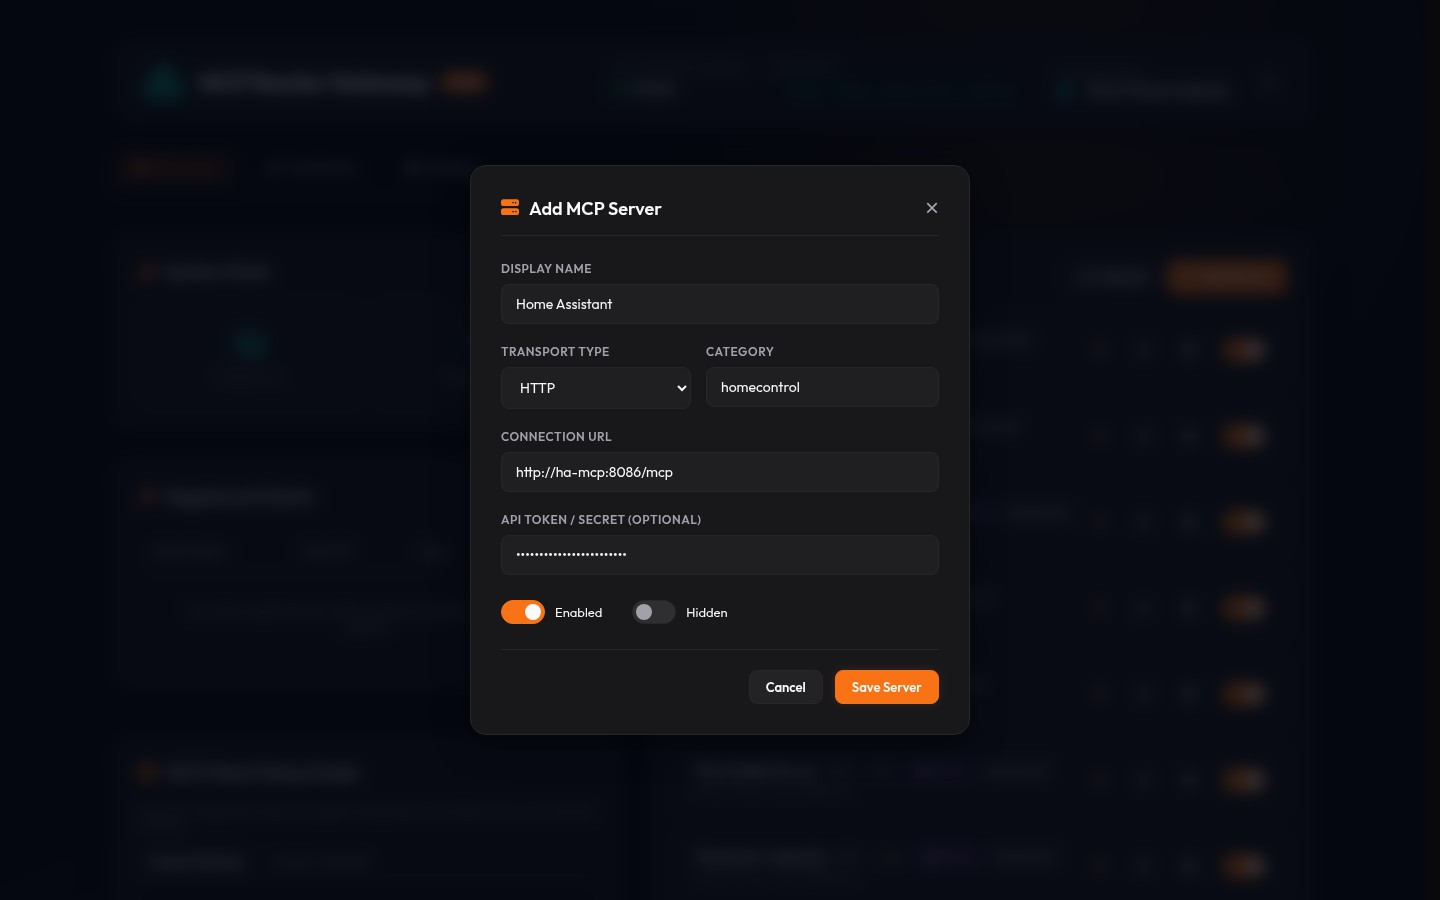
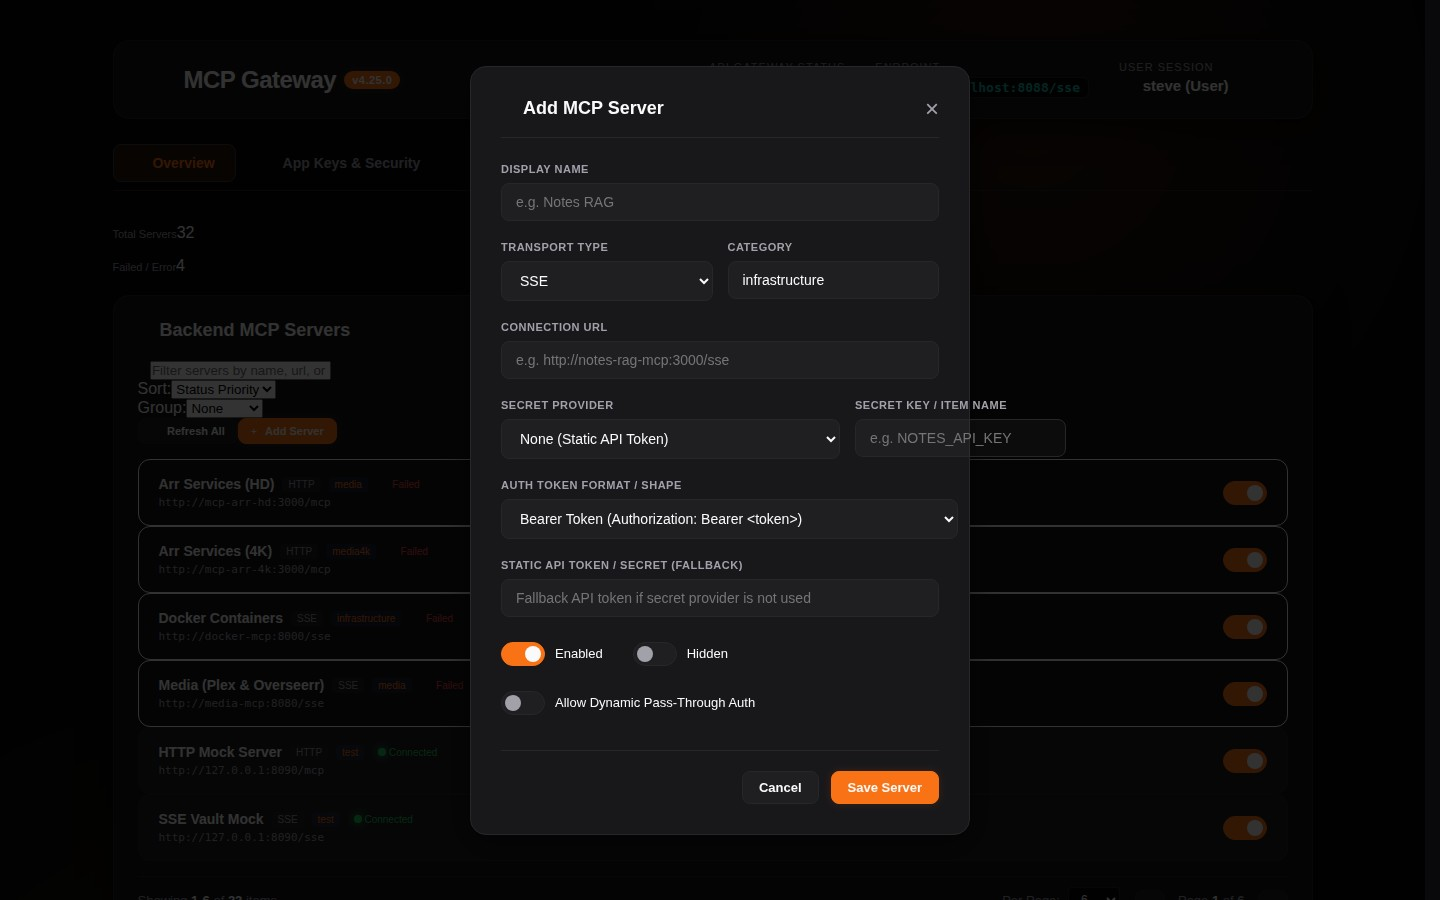
docs(user-guide): embed authentic live application screenshots across all user guide chapters

diff --git a/docs/user-guide/06-settings-and-embeddings.md b/docs/user-guide/06-settings-and-embeddings.md
@@ -6,22 +6,17 @@ The **Settings View** (`Settings` tab) provides a comprehensive configuration pl
 
 ## 🧭 Settings Sub-Navigation Tabs
 
-The Settings interface is organized into 6 modular domain tabs:
+![System Settings Overview](../assets/settings_view.jpg)
 
-```
-+---------------------------------------------------------------------------------------------+
-| ⚙ System Settings                                                                          |
-+---------------------------------------------------------------------------------------------+
-| [🧠 Vector & Search] [🛡 Security & Approvals] [🪪 Identity & Auth] [🔐 Secret Providers]   |
-| [📂 Prompts & Resources] [👥 Access Control]                                                |
-+---------------------------------------------------------------------------------------------+
-```
+The Settings interface is organized into 6 modular domain tabs:
 
 ---
 
 ## 🧠 Tab 1: Vector & Search Engine (`GeneralTab`)
 
-The vector embedding engine powers the **Meta-Mode** dynamic discovery pipeline (`search_tools`), matching natural language agent queries against the tool catalog.
+![Settings Vector and Semantic Search Options](../assets/settings_vector_search.jpg)
+
+The vector embedding engine powers the **Meta-Mode** dynamic discovery pipeline (`search_tools`), matching natural language agent queries against the tool catalog:
 
 ```
 +-------------------------------------------------------------------------------+
@@ -71,6 +66,8 @@ Controls global execution policies and administrative barriers:
 
 ## 🪪 Tab 3: Identity & Auth Providers (`IdentityAuthTab`)
 
+![Settings Identity and Authentication Providers](../assets/settings_identity_auth.jpg)
+
 Manages incoming authentication and user identity resolution:
 
 ### 1. Active Directory / Windows SID Provider
@@ -89,31 +86,19 @@ Manages incoming authentication and user identity resolution:
 
 ## 🔐 Tab 4: Secret Providers (`SecretProvidersTab`)
 
-Manage centralized configurations for external secret stores:
+![Settings Enterprise Secret Providers](../assets/settings_secret_providers.jpg)
 
-```
-+-------------------------------------------------------------------------------+
-| 🔐 Enterprise Secret Providers                                                |
-+-------------------------------------------------------------------------------+
-| [ HashiCorp Vault KV v2 ]                         [ Status: 🟢 Connected ]   |
-| Vault Address:       [ http://vault:8200                                   ]  |
-| Mount Point:         [ secret                                              ]  |
-| Authentication Mode: [ AppRole ▾ ]                                            |
-| Role ID:             [ 4a3e21b0-****-****-****-****************            ]  |
-| Secret ID:           [ ************************************                ]  |
-| JIT Renewal Window:  [ 300 ] seconds (Auto-renews if TTL < 5 min)             |
-|                                                                               |
-| [ Windows Registry (DPAPI) ]                      [ Status: 🟢 Active    ]   |
-| Registry Hive:       [ LocalMachine (HKLM) ▾ ]                                |
-| Base Subkey Path:    [ SOFTWARE\Homelab\McpSecrets                         ]  |
-|                                                                               |
-| [ Save Provider Settings ]                                                    |
-+-------------------------------------------------------------------------------+
-```
+Manage centralized configurations for external secret stores:
+* **HashiCorp Vault KV v2**: AppRole (`roleId` / `secretId`) or direct Token with JIT renewal.
+* **Windows Registry**: DPAPI-encrypted secrets stored in `HKLM` or `HKCU`.
+* **Container Environment**: Secrets dynamically loaded from prefix-matched container env vars.
+* **OAuth2 / OIDC Token Exchange (RFC 8693 / PocketID)**: On-Behalf-Of (OBO) token exchange for downstream tools.
 
 ---
 
 ## 📂 Tab 5: Prompts & Resources File Manager (`CustomFilesTab`)
+
+![Settings Prompts and Resources File Manager](../assets/settings_prompts_resources.jpg)
 
 Create and manage custom JSON files that define virtual tools, prompt templates, and virtual resource endpoints:
 
@@ -125,11 +110,12 @@ Create and manage custom JSON files that define virtual tools, prompt templates,
 
 ## 👥 Tab 6: Access Control & Group Mappings (`AccessControlTab`)
 
+![Settings Access Control and Group Mappings](../assets/settings_access_control.jpg)
+
 Fine-tune enterprise permissions across servers and external groups:
 
-* **Group Mappings Table**: Define mappings that translate external Identity Provider groups (e.g. `CN=IT-Admins,OU=Groups,DC=corp`) to simplified internal roles (`full_admin`).
+* **Group Mappings Table**: Define mappings that translate external Identity Provider groups (e.g. `CN=IT-Admins,OU=Groups,DC=corp` or `S-1-5-21-1001`) to simplified internal roles (`full_admin`).
 * **Server Policies Table**: Complete matrix of server-level access rules:
-  * Server Identifier
-  * Allowed Groups (e.g. `full_admin, house_member`)
-  * Denied Groups (e.g. `contractors`)
-  * Default Allow / Deny policy flag
+  * Target Identifier (e.g. `server:docker`, `tool:docker__ps`, `prompt:router__diagnose`)
+  * Required Group (e.g. `Engineering`, `Administrators`)
+  * Mode (`ALLOW Access` or `DENY Access`)

diff --git a/docs/user-guide/04-client-setup-and-app-keys.md b/docs/user-guide/04-client-setup-and-app-keys.md
@@ -6,26 +6,11 @@ The **MCP Gateway Router** enables AI coding assistants, IDEs, and autonomous ag
 
 ## 🔑 Managing App Keys (`App Keys & Security` Tab)
 
+![App Keys and Security Management View](../assets/security_view.jpg)
+
 AppKeys grant external clients secure, authenticated access to the router without exposing master administrator credentials or passing raw SSO headers.
 
-```
-+-------------------------------------------------------------------------------+
-| 🔑 Generate New App Key                                                    [X] |
-+-------------------------------------------------------------------------------+
-| Key Label / Description: [ Cursor IDE Workstation                           ] |
-| Assigned User Principal: [ admin                                            ] |
-|                                                                               |
-| Access Scopes:                                                                |
-|   (•) Global Administrator (*)                                                |
-|   ( ) Category Scoped (category:infrastructure, category:smarthome)           |
-|   ( ) Server Scoped (server:docker, server:homeassistant)                     |
-|   ( ) Custom Granular Scopes [                                              ] |
-|                                                                               |
-| Expiration Policy:       [ 90 Days ▾                                        ] |
-|                                                                               |
-| [ Cancel ]                                                  [ Generate Key ] |
-+-------------------------------------------------------------------------------+
-```
+![Generate App Key Modal](../assets/add_appkey_modal.jpg)
 
 ### 1. Generating an AppKey
 1. Click **`App Keys & Security`** in the top navigation bar.
@@ -201,6 +186,8 @@ asyncio.run(main())
 
 ## 👥 Registered Clients Registry (`RegisteredClientsCard`)
 
+![Registered OAuth Client Modal](../assets/registered_client_modal.jpg)
+
 The **Registered Clients** table in the App Keys & Security view provides real-time visibility into active client connections:
 
 * **Client Name & ID**: Reported client user-agent or application name.
@@ -208,3 +195,11 @@ The **Registered Clients** table in the App Keys & Security view provides real-t
 * **Client IP Address**: Source IP address of the client connection.
 * **Active Sessions**: Number of open SSE / HTTP sessions.
 * **Last Seen**: Live timestamp of the most recent JSON-RPC activity.
+
+---
+
+## 🛡 Interactive OAuth 2.0 Consent Screen
+
+![Interactive OAuth Consent Screen](../assets/oauth_consent_screen.jpg)
+
+When third-party multi-tenant applications or developer tools initiate the standard OAuth 2.0 Authorization Code flow against `/oauth/authorize` or `/connect/authorize`, the gateway presents the interactive consent authorization screen at `/consent`. End-users can inspect the requested client identity, verify backend scope boundaries, and approve or deny access in real time.

diff --git a/docs/user-guide/01-dashboard-and-navigation.md b/docs/user-guide/01-dashboard-and-navigation.md
@@ -6,6 +6,8 @@ The **MCP Gateway Router Dashboard** provides a centralized control plane for mo
 
 ## 🖥 Layout & Primary Navigation Tabs
 
+![MCP Gateway Router Overview Dashboard](../assets/dashboard.jpg)
+
 The web interface features a dark-mode glassmorphic design with a fixed top navigation bar that enables one-click switching across primary functional views:
 
 ```
@@ -107,7 +109,15 @@ Each registered backend MCP server is rendered in an individual glassmorphic car
 * **🔄 Reconnect**: Forces an immediate background cache flush and downstream connection reset.
 * **🗑 Delete**: Safely removes the server registration and cleans up in-memory sessions.
 
+![Server Capabilities Inspect Modal](../assets/server_inspect_modal.jpg)
+
 ---
+
+## 🔑 My MCP Servers (Per-User Provided Credentials)
+
+![My MCP Servers View](../assets/my_mcp_servers_view.jpg)
+
+For multi-tenant environments where individual users bring their own personal access tokens (PATs) or API credentials, the **My MCP Servers** tab allows end-users to securely manage and store isolated credentials encrypted in SQLite or MySQL with the master envelope key.
 
 ## 📖 Navigation Flow Summary
 

diff --git a/docs/user-guide/03-rbac-and-security.md b/docs/user-guide/03-rbac-and-security.md
@@ -114,6 +114,8 @@ graph TD
 
 ## 🎛 Configuring Access Control & Group Mappings
 
+![Settings Access Control and RBAC Policies](../assets/settings_access_control.jpg)
+
 ### 1. Server Policy Configuration Modal
 Click **`Policy`** on any server card on the Overview dashboard:
 
@@ -125,6 +127,8 @@ Click **`Policy`** on any server card on the Overview dashboard:
 Navigate to **`Settings`** -> **`Access Control`**:
 * **Group Mappings Table**: Map external SSO/AD groups to standardized internal roles.
 * **Server Policies Table**: Centralized grid of all server policies with quick inline editing.
+
+![Settings Identity and Authentication Providers](../assets/settings_identity_auth.jpg)
 
 ---
 

diff --git a/docs/user-guide/02-server-management-and-secrets.md b/docs/user-guide/02-server-management-and-secrets.md
@@ -6,6 +6,8 @@ The **MCP Gateway Router** enables seamless registration and management of backe
 
 ## ➕ Registering a New Backend Server
 
+![Add Server Registration Modal](../assets/add_server_modal.jpg)
+
 Click the **`+ Add Server`** button in the dashboard toolbar to launch the Server Registration Modal.
 
 ```
@@ -121,6 +123,8 @@ To eliminate hardcoded credentials and plaintext secrets in databases, the route
 ---
 
 ## 👁 Inspecting Server Capabilities (Inspect Modal)
+
+![Server Capabilities Inspect Modal](../assets/server_inspect_modal.jpg)
 
 Click **`Inspect`** on any server card to open the Server Inspect Modal:
 

diff --git a/docs/user-guide/05-interactive-test-bench.md b/docs/user-guide/05-interactive-test-bench.md
@@ -6,6 +6,8 @@ The **Interactive Test Bench** (`Test Bench` tab) is a developer and operator pl
 
 ## 🎛 Test Bench Overview & Layout
 
+![Interactive Test Bench View](../assets/test_bench_view.jpg)
+
 The Test Bench aggregates five specialized diagnostic tools in an interactive multi-panel layout:
 
 ```
